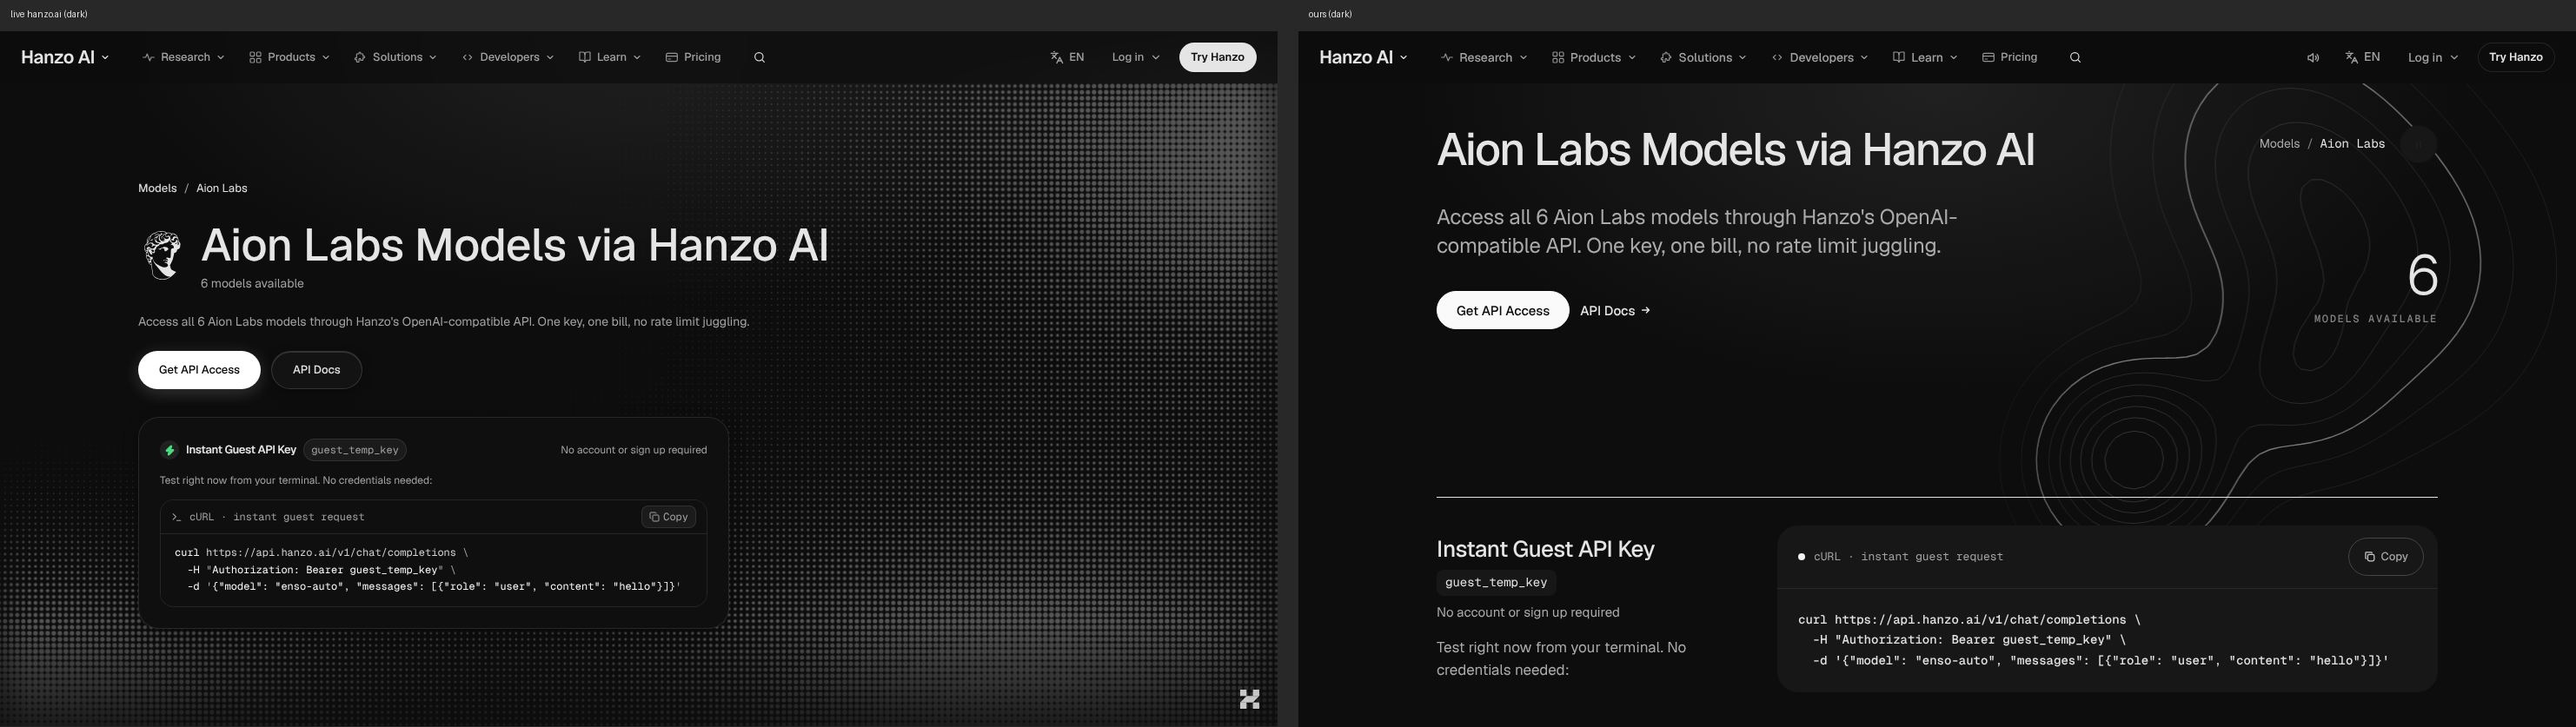
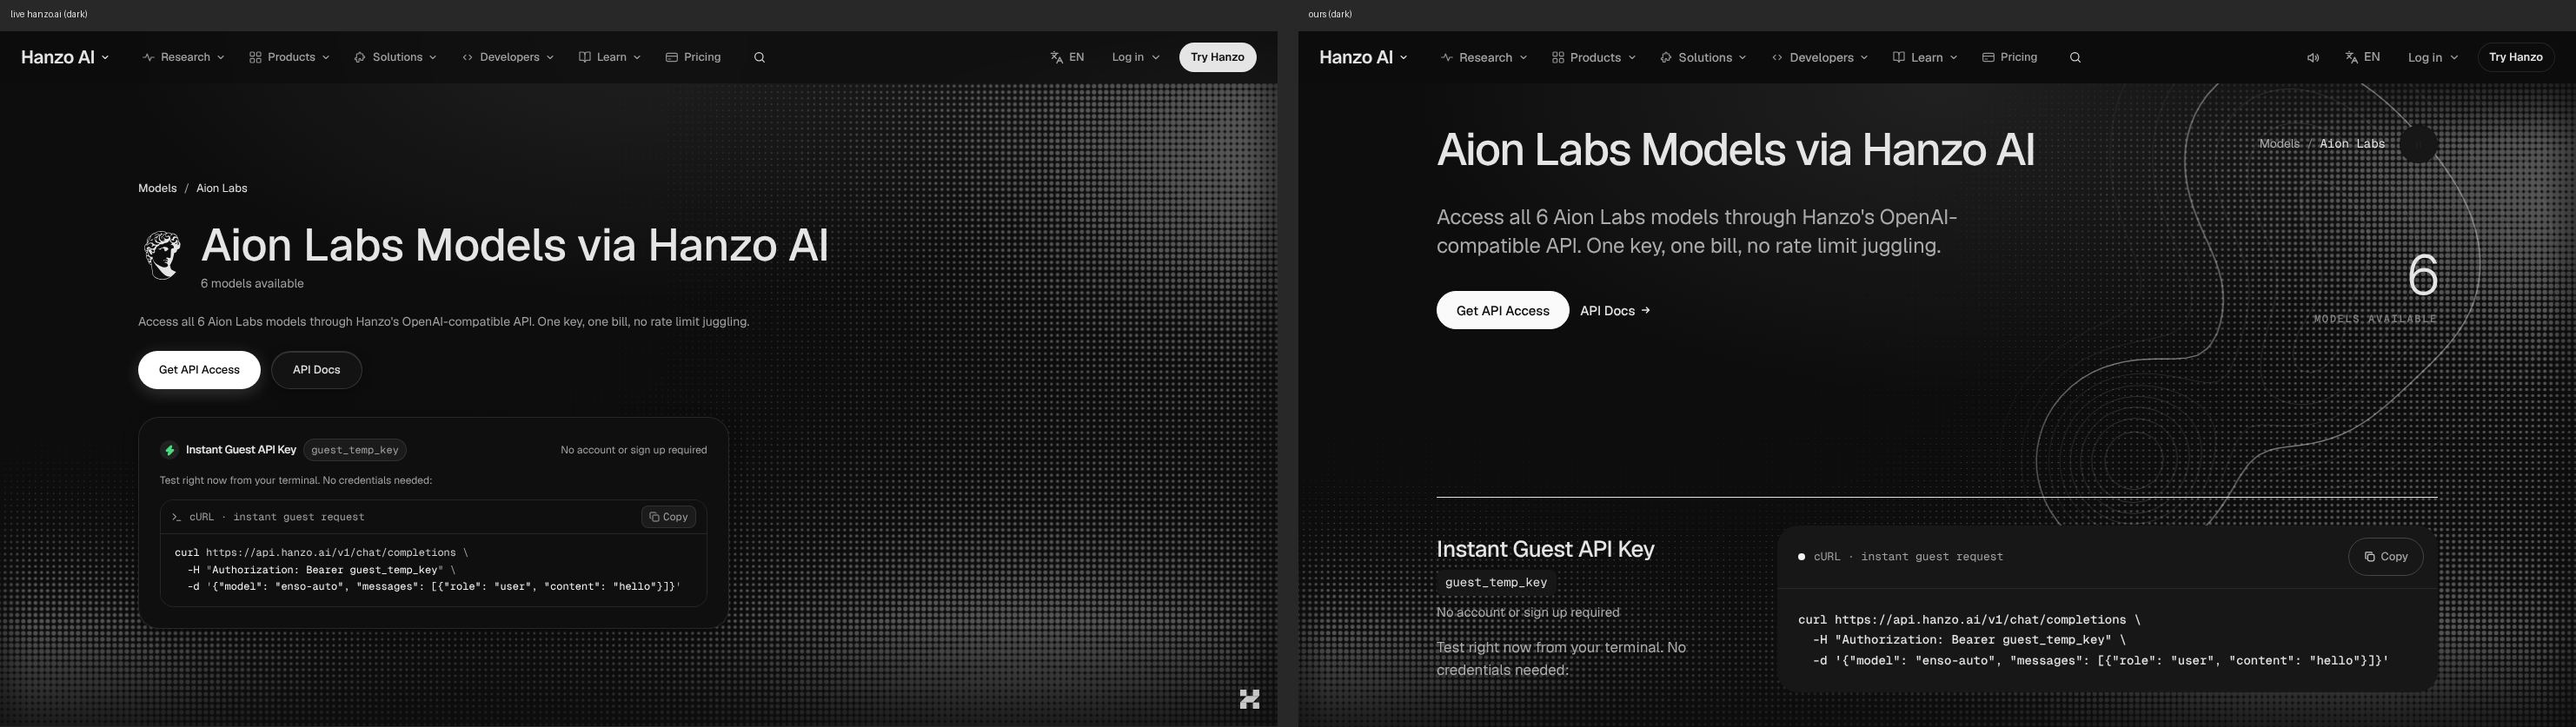
dark: live hanzo.ai's hero halftone (its own Dither, ported) for slice C2's heroes; models heroes carry it
components/pages/HeroDither.jsx/.css: a faithful port of the Dither in
hanzo.ai's deployed bundle (8 Nov): 7px cells, dot radius from a three-blob
field (top right, bottom right, bottom left), page foreground at 34%, 108%
box at -4%, edge fades top 12% / bottom 18% / sides 6%, a 26 s drift while
in view, still under reduced motion. Live draws it behind the hero of 14 of
this slice's pages (not /legal, /legal/*, /newsletter, /open-source). Shown
in dark only (html.light hides it), under the hero's content.

/models/* maker shelves and model sheets: <HeroDither /> in the hero.
lightcheck OK (0 diffs, 1470 and 375); copycheck aion-labs 0 of 30,
aion-2.0 0 of 48; dark: 0 console errors, no sideways scroll on aion-labs,
aion-2.0, anthropic, hanzo/kai at 1470x801 and 375x812; taste OK.

Claude-Session: https://claude.ai/code/session_01P5YBdv7StJZXmK5oNtoxtW

Changed region(s): [[0.807, 0.1243, 1.0, 0.994], [0.4966, 0.7766, 0.6518, 0.994]]

diff --git a/components/pages/HeroDither.jsx b/components/pages/HeroDither.jsx
@@ -1,0 +1,57 @@
+'use client';
+/* Hanzo's hero halftone, ported from live hanzo.ai's own `Dither` (its deployed bundle, 8 Nov): a 7px grid of dots whose size
+   follows a soft field of three blobs (bright at the top right, the bottom right and the bottom left), drawn in the page's
+   foreground at 34%, faded at the edges (top 12%, bottom 18%, sides 6%) and drifting 2.5% / 1.5% over 26 s while in view.
+   Live draws it behind the hero of its product pages. Ours shows it in dark only (html:not(.light)): bright mode stays as it
+   was. Usage: <HeroDither /> as the first child of a hero with position: relative (it fills the hero, under its content).
+   Slice C2's pages only; Hanzo's own wording and media are untouched (aria-hidden, no text). */
+import { useEffect, useRef } from 'react';
+import './HeroDither.css';
+
+const blobs = (b) => (x, y) => Math.min(1, b.reduce((s, [i, n, a]) => s + Math.exp(-((x - i) ** 2 + (y - n) ** 2) / (a * a)), 0)) ** 1.4;
+const FIELD = blobs([[0.98, 0.18, 0.36], [0.78, 0.96, 0.36], [0.04, 0.96, 0.28]]);
+const CELL = 7;
+const fade = (a, b, dir) => `linear-gradient(to ${dir}, transparent, #fff ${(100 * a).toFixed(1)}%, #fff ${((1 - b) * 100).toFixed(1)}%, transparent)`;
+const MASK = [fade(0.12, 0.18, 'bottom'), fade(0.06, 0.06, 'right')].join(', ');
+
+export default function HeroDither({ className = '' }) {
+  const drift = useRef(null), cv = useRef(null);
+  useEffect(() => {
+    const c = cv.current, box = drift.current;
+    if (!c || !box) return;
+    const ctx = c.getContext('2d');
+    const draw = () => {
+      const dpr = Math.min(2, devicePixelRatio || 1), w = c.clientWidth, h = c.clientHeight;
+      if (w < 1 || h < 1 || getComputedStyle(box).display === 'none') return;
+      if (c.width !== Math.round(w * dpr)) { c.width = Math.round(w * dpr); c.height = Math.round(h * dpr); }
+      const cols = Math.max(1, Math.floor(w / CELL)), rows = Math.max(1, Math.floor(h / CELL)), half = CELL / 2;
+      ctx.setTransform(dpr, 0, 0, dpr, 0, 0);
+      ctx.clearRect(0, 0, w, h);
+      ctx.fillStyle = getComputedStyle(c).color;
+      for (let j = 0; j < rows; j++) for (let i = 0; i < cols; i++) {
+        const n = FIELD(i / cols, j / rows);
+        if (n <= 0.02) continue;
+        ctx.beginPath(); ctx.arc(i * CELL + half, j * CELL + half, Math.min(half, half * Math.min(1, n)), 0, 2 * Math.PI); ctx.fill();
+      }
+    };
+    draw();
+    const ro = new ResizeObserver(draw); ro.observe(c);
+    // the theme can change while the page is open: draw when it turns dark, in the new foreground
+    const mo = new MutationObserver(draw); mo.observe(document.documentElement, { attributes: true, attributeFilter: ['class'] });
+    let anim = null, io = null;
+    if (!matchMedia('(prefers-reduced-motion: reduce)').matches && typeof box.animate === 'function') {
+      anim = box.animate([{ transform: 'translate3d(0, 0, 0)' }, { transform: 'translate3d(-2.5%, 1.5%, 0)' }], { duration: 26000, direction: 'alternate', iterations: Infinity, easing: 'ease-in-out' });
+      anim.pause();
+      io = new IntersectionObserver(([e]) => (e && e.isIntersecting ? anim.play() : anim.pause()));
+      io.observe(box);
+    }
+    return () => { ro.disconnect(); mo.disconnect(); if (io) io.disconnect(); if (anim) anim.cancel(); };
+  }, []);
+  return (
+    <div className={'hz-dither ' + className} aria-hidden="true">
+      <div ref={drift} className="hz-dither-d">
+        <canvas ref={cv} data-slot="dots" style={{ WebkitMaskImage: MASK, maskImage: MASK, WebkitMaskComposite: 'source-in', maskComposite: 'intersect' }} />
+      </div>
+    </div>
+  );
+}

diff --git a/components/pages/models/ModelSheet.jsx b/components/pages/models/ModelSheet.jsx
@@ -19,6 +19,7 @@ import MaskFig from '../../v2/MaskFig';
 import Sigil from '../../Sigil';
 import ModelFilm, { FilmPause, usePaused } from '../../v2/ModelFilm';
 import SpecCard from '../../v2/SpecCard';
+import HeroDither from '../HeroDither';
 import { Field, Bill, Codes, Loose, RateBars, Reach, Also, CopyStatus, useCatalog, useShelf, rateFrom, rateText, money, isLocal } from './parts';
 import './models.css';
 
@@ -128,6 +129,7 @@ export default function ModelSheet({ doc }) {
     <main className="xmf xmf-model">
       <CopyStatus />
       <section className="xmf-launch" ref={hero} aria-labelledby="xmf-h1">
+        <HeroDither />
         <div className="x-wrap xmf-launch-g">
           <div className="xmf-launch-t">
             <h1 id="xmf-h1" className={'xmf-name ' + size(doc.name)} data-morph-target>

diff --git a/components/pages/models/ProviderShelf.jsx b/components/pages/models/ProviderShelf.jsx
@@ -16,6 +16,7 @@ import { A, Cta } from '../../kit';
 import Sigil from '../../Sigil';
 import { FilmPause, usePaused } from '../../v2/ModelFilm';
 import SpecCard from '../../v2/SpecCard';
+import HeroDither from '../HeroDither';
 import { Field, CopyStatus, useCatalog, rateFrom, money } from './parts';
 import './models.css';
 
@@ -55,6 +56,7 @@ export default function ProviderShelf({ doc }) {
     <main className="xmf xmf-prov">
       <CopyStatus />
       <section className="xmf-launch xmf-maker" aria-labelledby="xmf-h1">
+        <HeroDither />
         <div className="xmf-art" aria-hidden="true">
           <Sigil seed={doc.route} data={[n, Math.max(0, ...tokens), outs.length ? Math.min(...outs) : 0, outs.length ? Math.max(...outs) : 0]} className="xmf-sigil" still={paused} />
         </div>

diff --git a/components/pages/HeroDither.css b/components/pages/HeroDither.css
@@ -1,0 +1,9 @@
+/* Hanzo's hero halftone (see HeroDither.jsx): live's absolute layer, 108% box at -4%, 34% opacity, page foreground.
+   Dark only: bright mode keeps the page exactly as it was. */
+.hz-dither { position: absolute; inset: 0; z-index: -1; overflow: hidden; pointer-events: none; }
+.hz-dither-d { position: absolute; top: -4%; left: -4%; width: 108%; height: 108%; opacity: .34; color: var(--foreground, #e5e5e5); }
+.hz-dither canvas { display: block; width: 100%; height: 100%; }
+html.light .hz-dither { display: none; }
+/* under the hero's content and over its own background: the hero becomes its own stacking context (dark only, so bright
+   mode's blending is untouched) */
+html:not(.light) :has(> .hz-dither) { isolation: isolate; }
